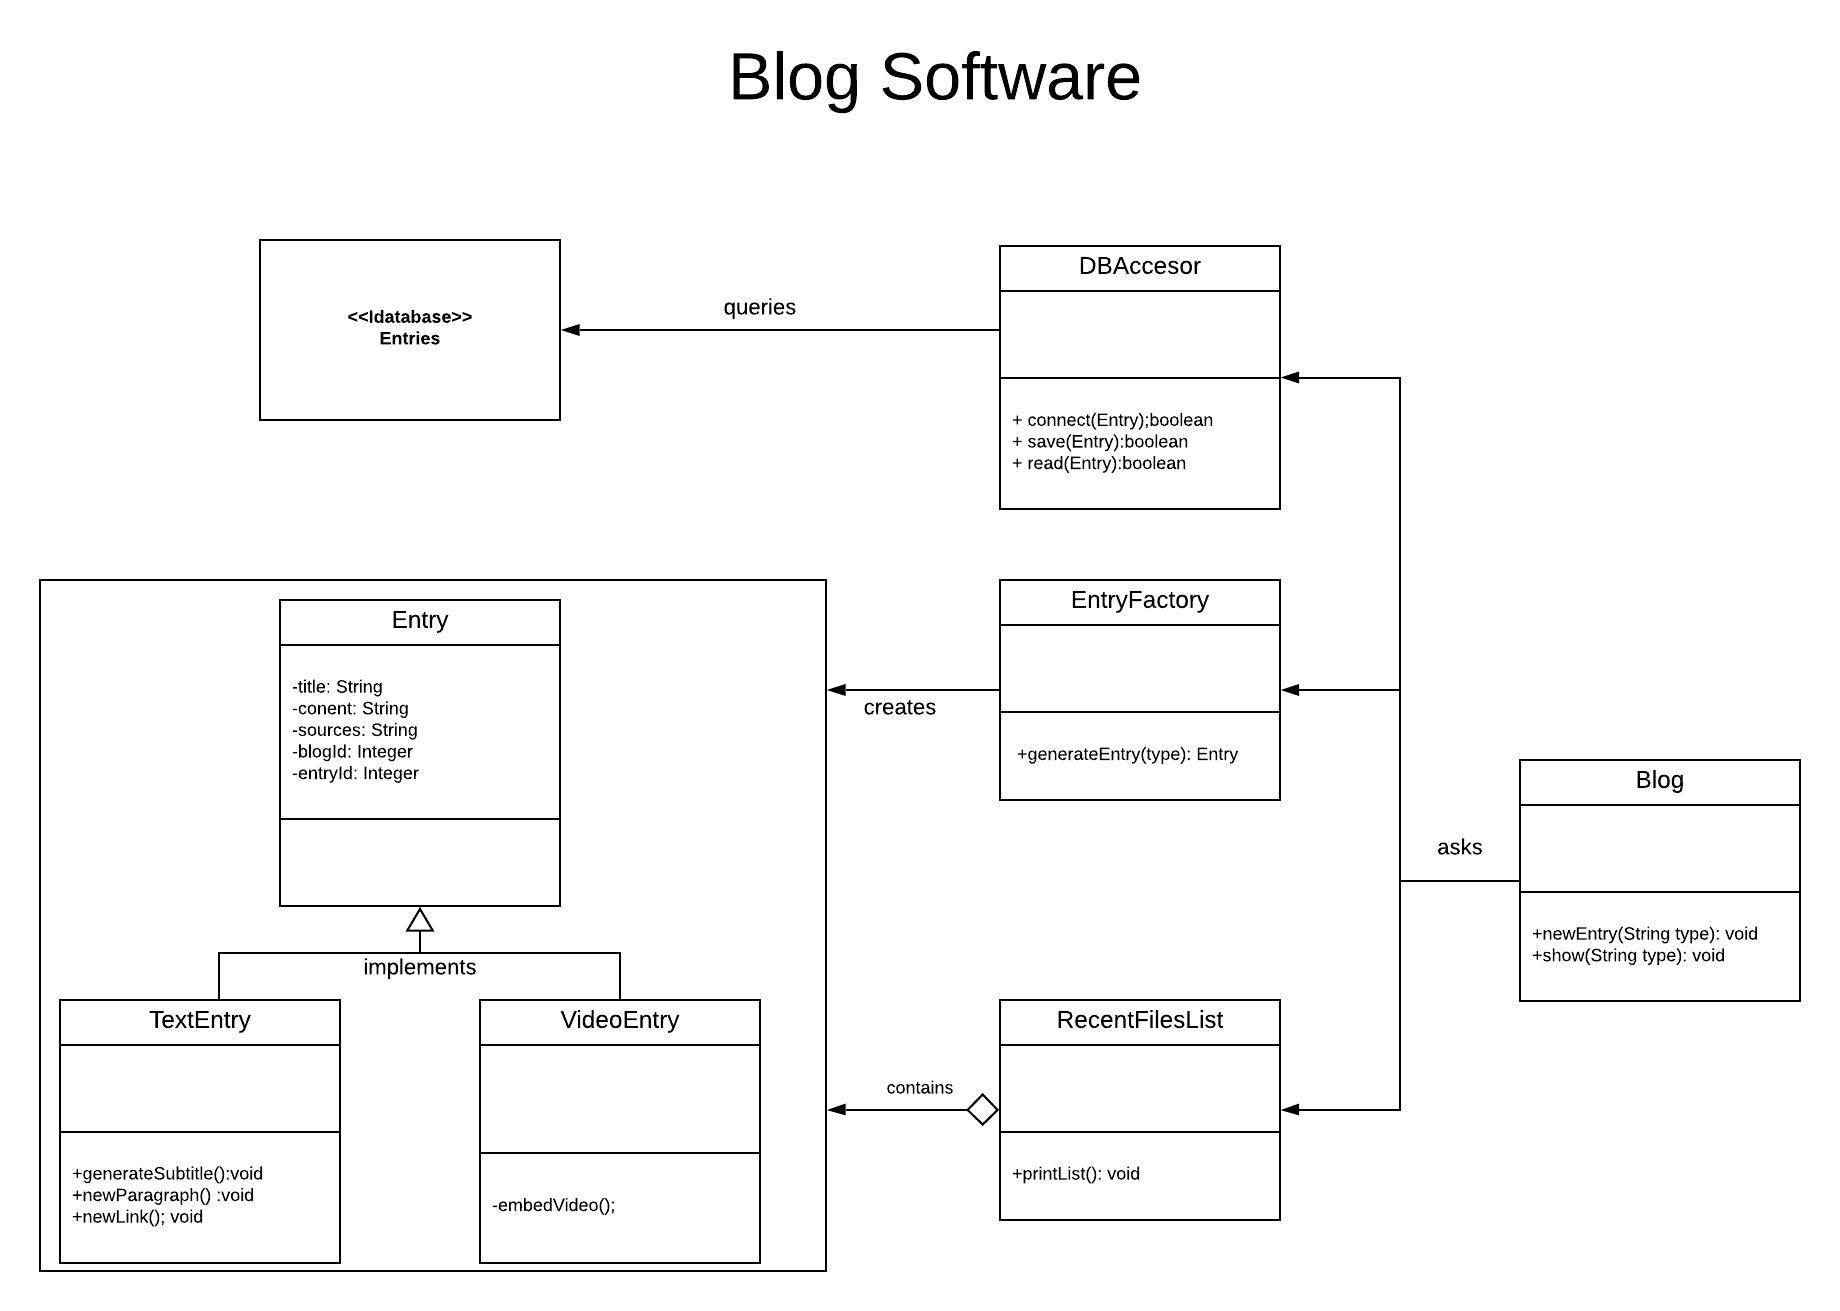
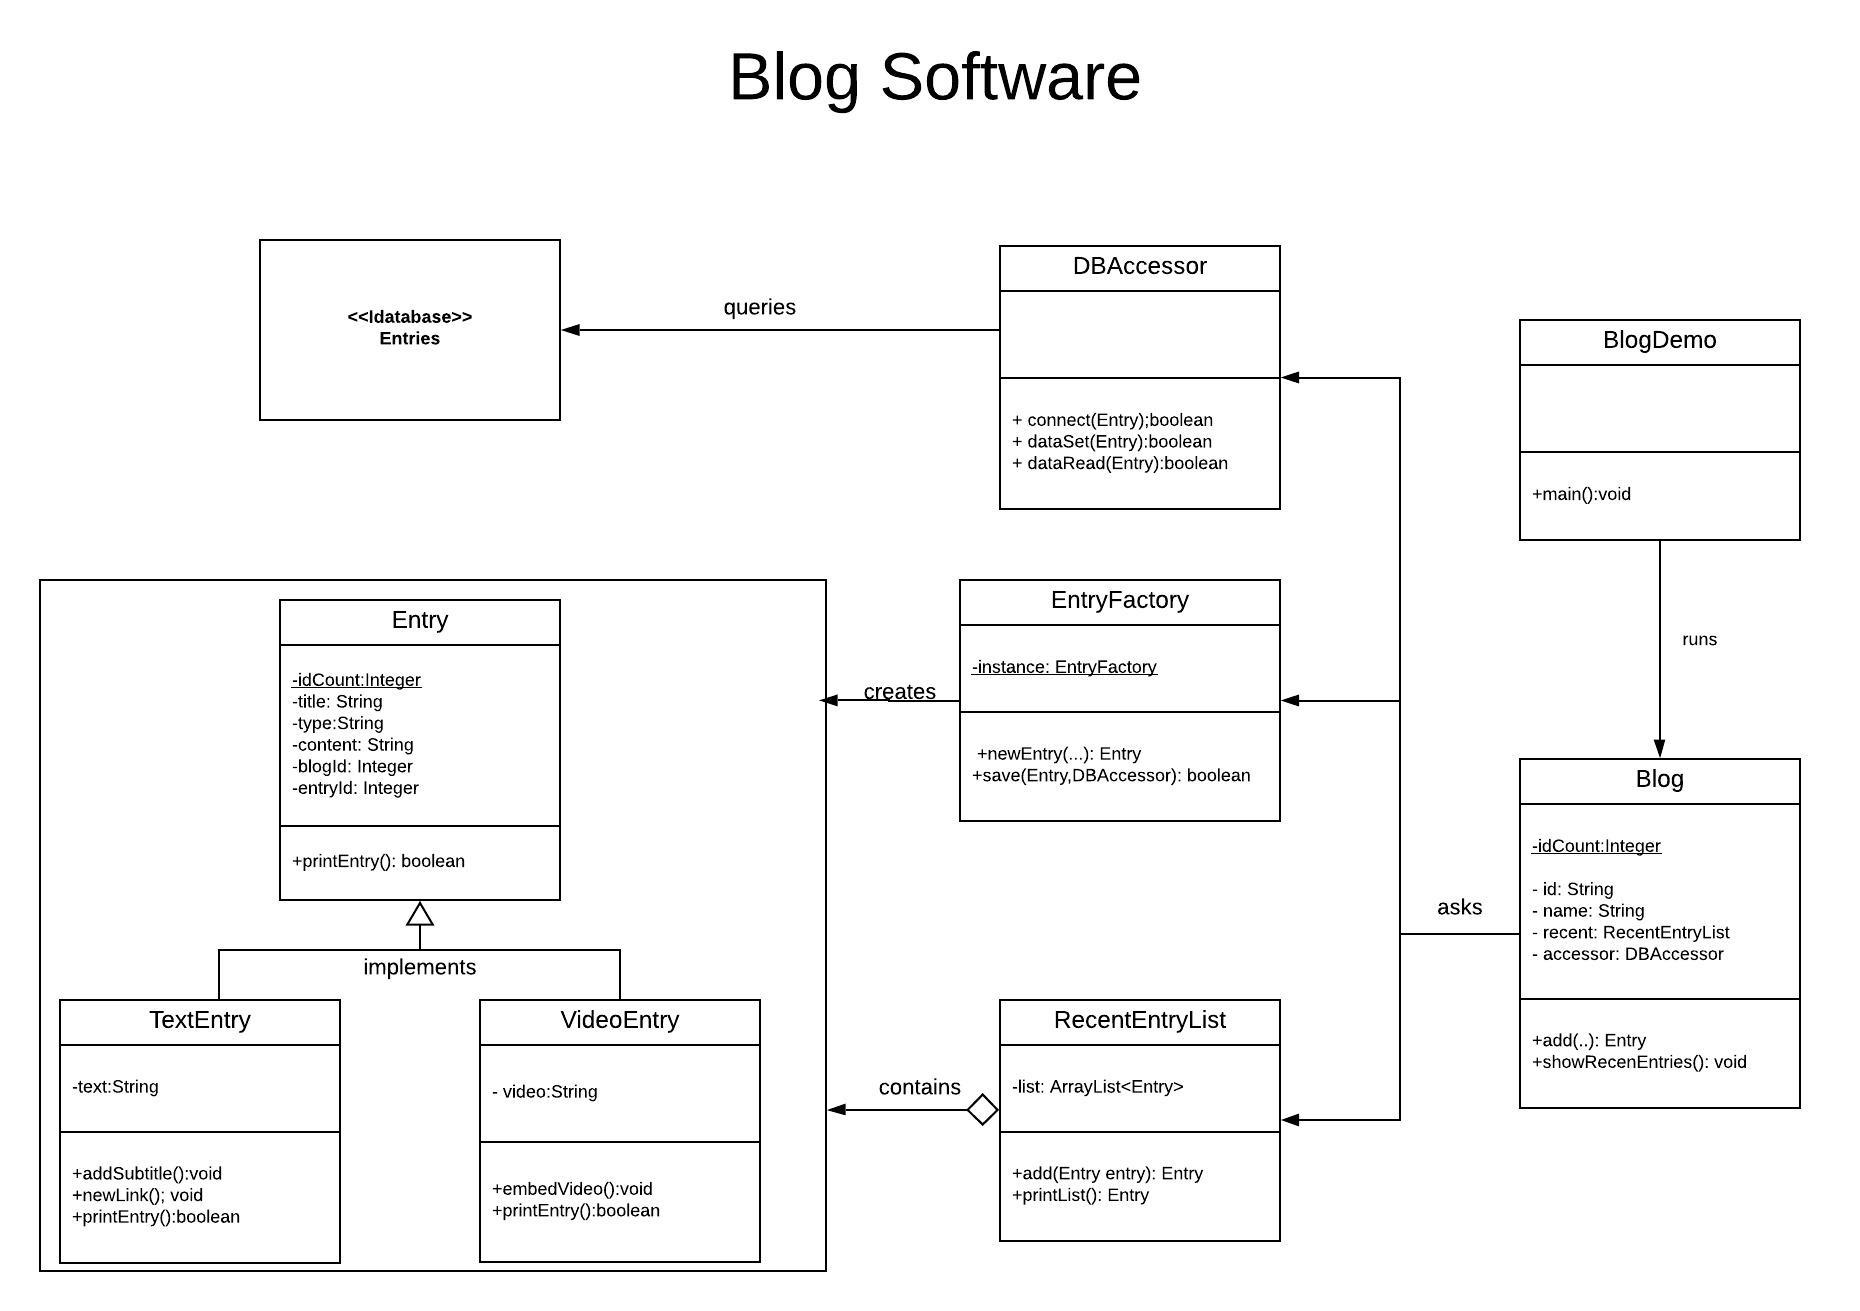
Topic 2 (TDD) - Item 2  - Added a README.md  - Updated the UML Model

diff --git a/Topic2-TDD/Blog/README.md b/Topic2-TDD/Blog/README.md
@@ -1,0 +1,47 @@
+# Blog Software
+This Software is aimed at the production and representation of personal Blogs. 
+It was developed with the objective of getting used to Test Driven Development.
+It uses Mock classes and other unfinished features, which will be developed in time.
+
+
+### Prerequisites
+
+For this program to run you need to count with:
+* JDK 8+
+* JRE
+* A Java IDE (To analyze the code)
+* Mockito core 2.7.2 or higher
+* jUnit 5.4 or higher
+* hamcrest 
+
+## Running the tests
+
+This Software was developed by Test Driven Development Techniques.
+All the tests are independent and can be run in any order.
+Mockito , hamcrest and jUnit 5.4 dependencies are needed to properly run them.
+
+
+## Deployment
+
+In order to run the factory app you must Run 'SQLFactoryDemo.java' which is the class
+that creates and uses the factories of the different SQL Connections.
+
+## Built With
+
+* [IntelliJ IDEA](https://www.jetbrains.com/es-es/idea/) - The Integrated Development Enviroment used
+* [Java Development Kit](https://www.oracle.com/technetwork/java/javase/downloads/jdk8-downloads-2133151.html) - API
+* [LucidChart](https://www.lucidchart.com/) - Used to make the Model
+* [Mockito](https://site.mockito.org/) - To develop the tests
+
+
+
+## Versioning
+
+git version 2.17.1
+
+## Authors
+
+* **Bohle Facundo** - *Initial work* - [bohledevs](https://github.com/PurpleBooth)
+
+
+## License
